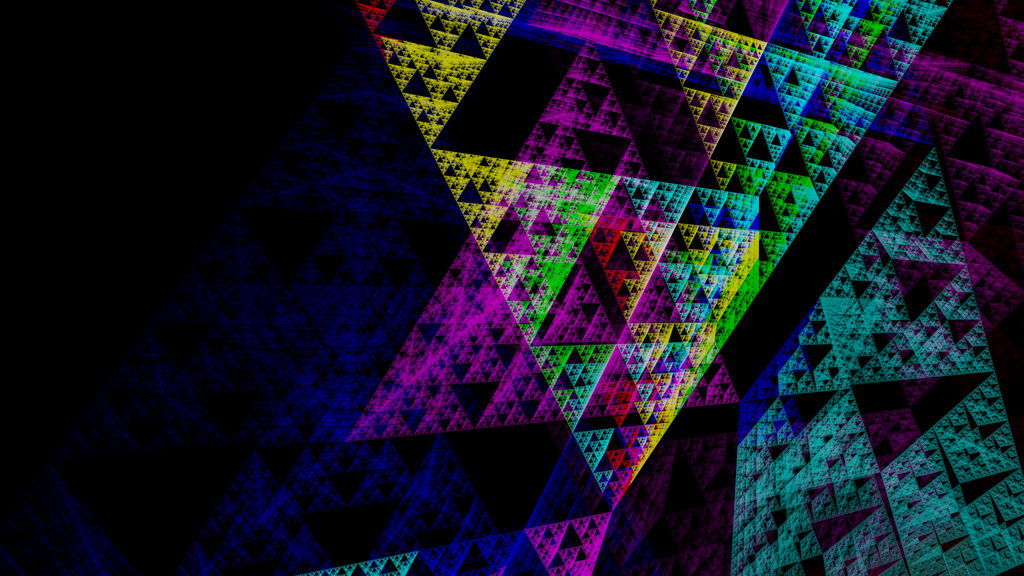
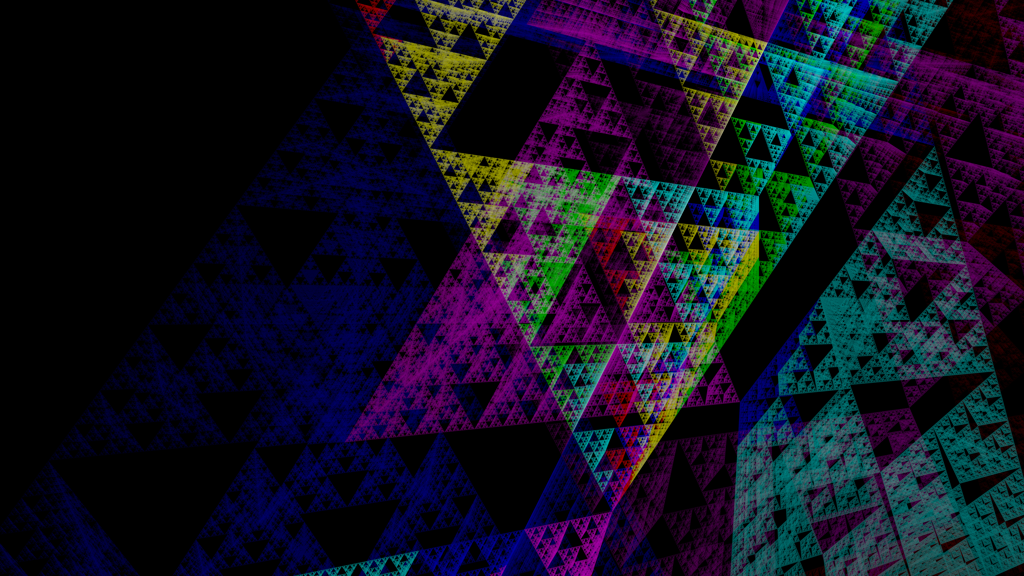
improve tone mapping

diff --git a/hist.go b/hist.go
@@ -70,6 +70,11 @@ func (h *Hist) index(x, y int) int {
 	return y*h.cols + x
 }
 
+// clscale is log10(0xffff). Histogram counts are in [0, 0xffff], but the flame
+// algorithm is based on colors in [0, 1]. Rescaling final results to that
+// range noticeably improves the brightness and coloration of images.
+const clscale = 4.8164733037652496
+
 // prep computes information needed to convert bins to colors.
 func (h *Hist) prep() {
 	// Find the maximum and compute lb.
@@ -79,7 +84,7 @@ func (h *Hist) prep() {
 			m = n
 		}
 	}
-	h.lb = math.Log(float64(m))
+	h.lb = math.Log10(float64(m)) - clscale
 	atomic.StoreInt32(&h.stat, 1)
 }
 
@@ -122,9 +127,9 @@ func (h *Hist) At(x, y int) color.Color {
 
 // cscale scales a bin count to a color component.
 func cscale(n uint64, lb float64) uint16 {
-	a := math.Log(float64(n)) / lb // logarithmic tone mapping
-	a *= 65536                     // scale to uint16
-	if a < 0 {                     // clip to uint16
+	a := (math.Log10(float64(n)) - clscale) / lb // logarithmic tone mapping
+	a *= 65536                                   // scale to uint16
+	if a < 0 {                                   // clip to uint16
 		a = 0
 	} else if a > 65535 {
 		a = 65535
@@ -134,10 +139,10 @@ func cscale(n uint64, lb float64) uint16 {
 
 // cscaleg scales a bin count to a color component with gamma.
 func cscaleg(n uint64, lb, exp float64) uint16 {
-	a := math.Log(float64(n)) / lb // logarithmic tone mapping
-	a = math.Pow(a, exp)           // gamma
-	a *= 65536                     // scale to uint16
-	if a < 0 {                     // clip to uint16
+	a := (math.Log10(float64(n)) - clscale) / lb // logarithmic tone mapping
+	a = math.Pow(a, exp)                         // gamma
+	a *= 65536                                   // scale to uint16
+	if a < 0 {                                   // clip to uint16
 		a = 0
 	} else if a > 65535 {
 		a = 65535
